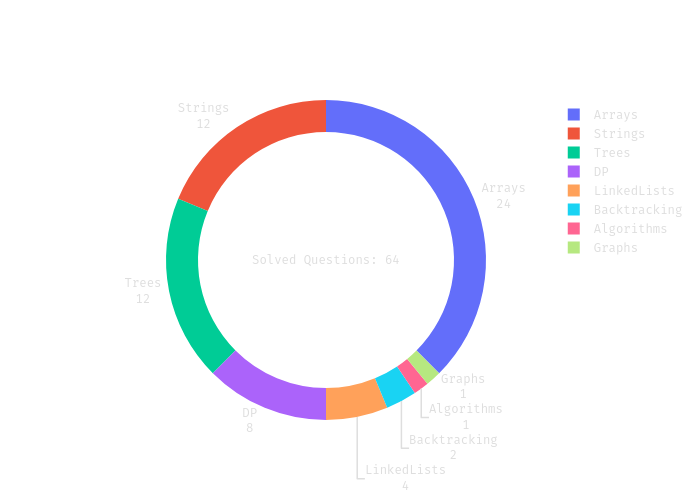
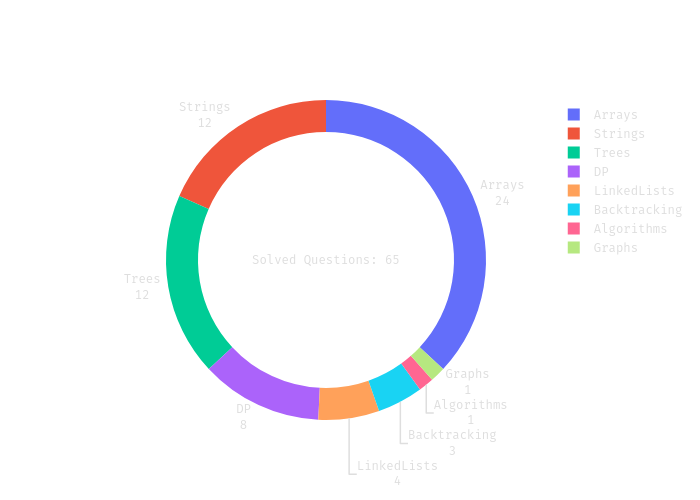
nQueens

diff --git a/Backtracking/nQueens.py b/Backtracking/nQueens.py
@@ -1,0 +1,37 @@
+from typing import List
+from utils.helpers import printMatrix
+
+
+def solveNQueens(n: int) -> List[List[str]]:
+
+    def backtrack(r):
+        if r == n:
+            new = []
+            for i in board:
+                new.append("".join(i))
+            res.append(new)
+            return
+        for c in range(n):
+            if c not in cols and r + c not in diag_pos and r - c not in diag_neg:
+                board[r][c] = "Q"
+                cols.add(c)
+                diag_pos.add(r + c)
+                diag_neg.add(r - c)
+
+                backtrack(r + 1)
+
+                board[r][c] = "."
+                cols.remove(c)
+                diag_pos.remove(r + c)
+                diag_neg.remove(r - c)
+
+    cols = set()
+    diag_pos = set()
+    diag_neg = set()
+    board = [["."] * n for _ in range(n)]
+    res = []
+    backtrack(0)
+    return res
+
+
+print(solveNQueens(4))
